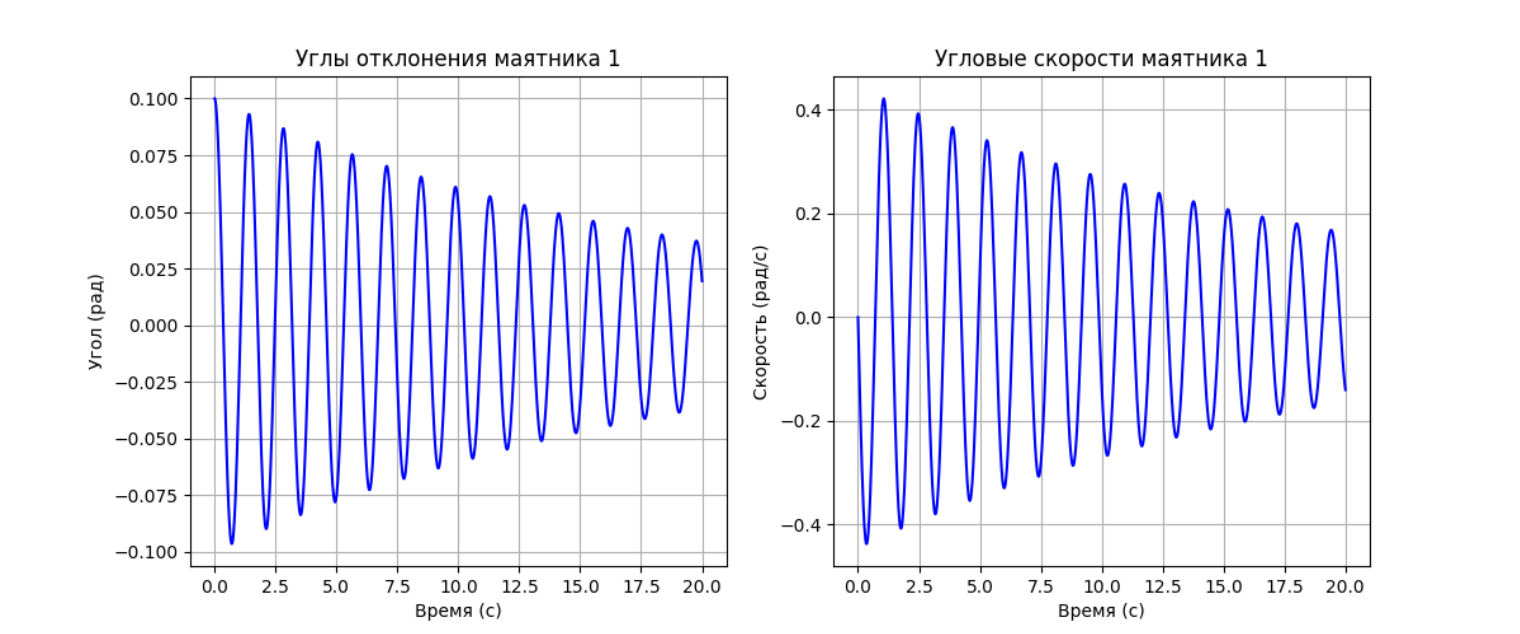
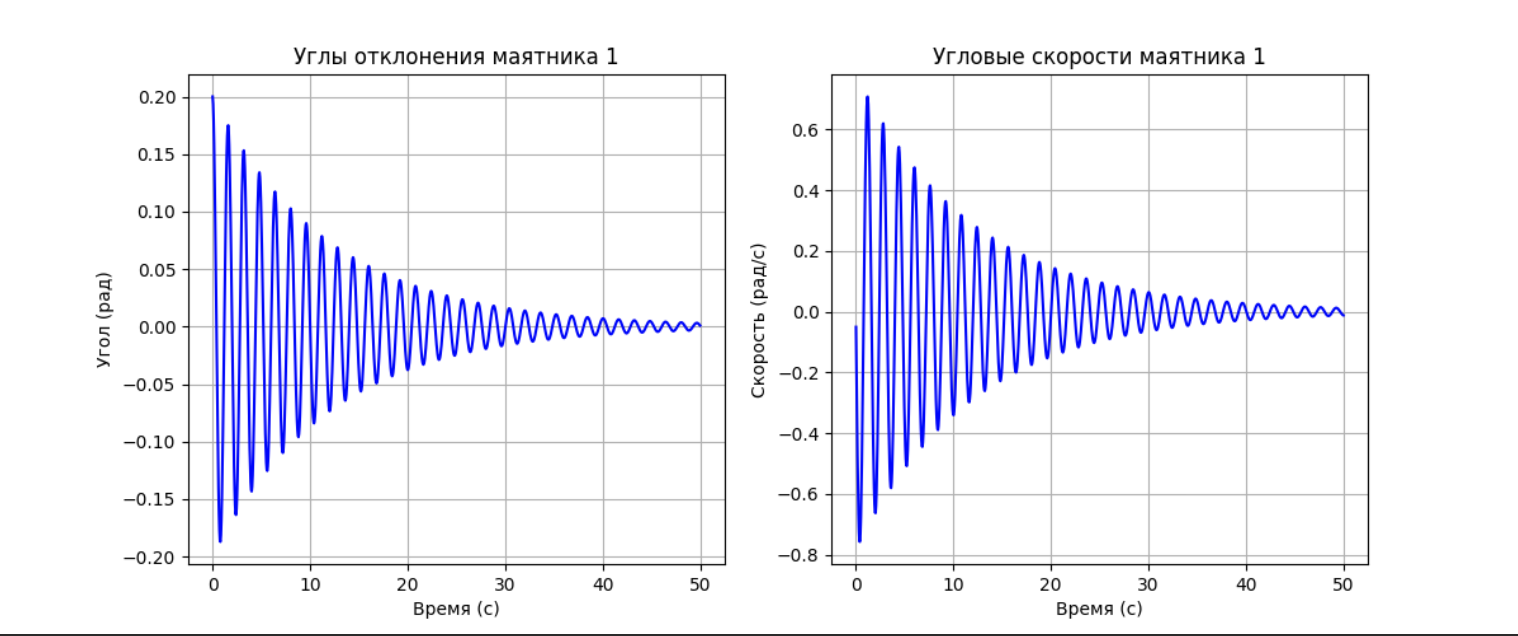
data changed

Changed region(s): [[0.0, 0.0599, 1.0, 1.0]]

diff --git a/main.py b/main.py
@@ -31,19 +31,19 @@ def calculate_normal_frequencies(m, L, L1, k, g):
 
 
 # Параметры системы
-m = 1.0  # масса маятника
-L = 1.0  # длина подвеса
-L1 = 0.5  # расстояние между маятниками, где прикреплена пружина
-k = 10.0  # коэффициент жёсткости пружины
+m = 1.5  # масса маятника
+L = 0.8  # длина подвеса
+L1 = 0.3  # расстояние между маятниками, где прикреплена пружина
+k = 5.0  # коэффициент жёсткости пружины
 g = 9.8  # ускорение свободного падения
-beta = 0.1  # коэффициент затухания
-t_max = 20  # максимальное время для анализа
+beta = 0.2  # коэффициент затухания
+t_max = 50  # максимальное время для анализа
 
 # Начальные условия
-phi1_0 = 0.1  # начальное отклонение первого маятника
-phi2_0 = -0.1  # начальное отклонение второго маятника
-dot_phi1_0 = 0.0  # начальная угловая скорость первого маятника
-dot_phi2_0 = 0.0  # начальная угловая скорость второго маятника
+phi1_0 = 0.2  # начальное отклонение первого маятника
+phi2_0 = -0.2  # начальное отклонение второго маятника
+dot_phi1_0 = -0.05  # начальная угловая скорость первого маятника
+dot_phi2_0 = 0.05  # начальная угловая скорость второго маятника
 
 # Решение системы и построение графиков
 t, sol = solve_pendulum_system(m, L, L1, k, g, beta, phi1_0, phi2_0, dot_phi1_0, dot_phi2_0, t_max)
